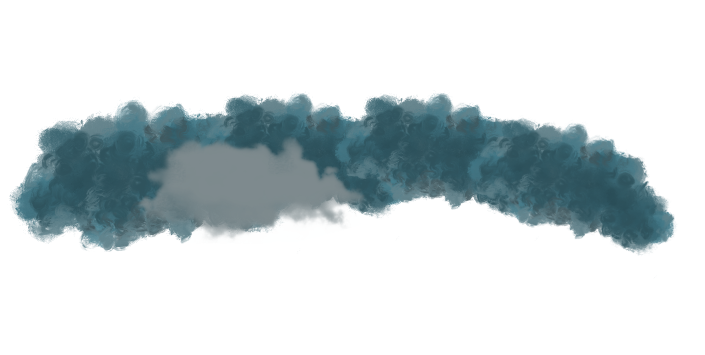
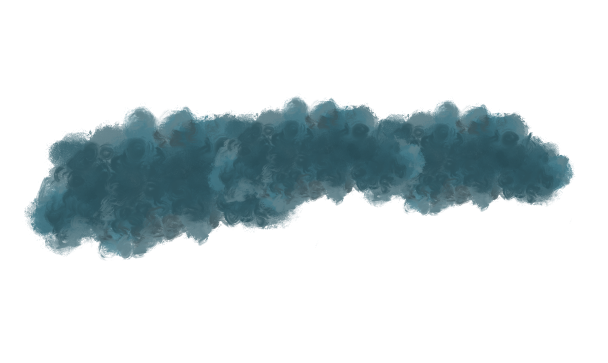
[leo]: semayam asa page image and typography revision

Changed region(s): [[0.0, 0.2479, 0.9688, 0.7127], [0.125, 0.5577, 0.1562, 0.5887]]

diff --git a/app/semayam-asa/page.tsx b/app/semayam-asa/page.tsx
@@ -74,10 +74,15 @@ function SemayamAsa() {
           className="flex text-base flex-col items-center gap-5 mt-10 text-center text-[20px] ">
           <div className="max-w-[1000px]">
             <p>
-              TEDxUniversitasBrawijaya kembali hadir dalam proses Memantik
-              Baskara: Tersulut Tak Membara, Terbakar Tak Bersuara. dalam
-              Semayam Asa dengan, Kreativitas, Kolaborasi, dan Keterbukaan yang
-              menjadi kunci dari tema besar TEDxUniversitasBrawijaya 2023.
+              TEDxUniversitasBrawijaya kembali hadir dalam proses{' '}
+              <span className="font-bold">
+                Memantik Baskara: Tersulut Tak Membara, Terbakar Tak Bersuara
+              </span>{' '}
+              dalam Semayam Asa dengan{' '}
+              <span className="font-bold">
+                Kreativitas, Kolaborasi, dan Keterbukaan
+              </span>{' '}
+              yang menjadi kunci dari tema besar TEDxUniversitasBrawijaya 2023.
             </p>
             <p className="my-[30px]">
               Kreativitas sebagai pertimbangan berbagai ide dan gagasan tanpa
@@ -248,7 +253,7 @@ function SemayamAsa() {
                 sizes="100vh"
                 className="object-cover"
               />
-              <div className="absolute w-[150%] -top-[20%] -left-[24%] aspect-[16/5] z-20">
+              <div className="absolute w-[120%] -top-[10%] -left-[24%] aspect-[16/5] z-20">
                 <Image
                   src={`/assets/images/semayam-asa-cloud.png`}
                   alt="Cloud"
@@ -257,7 +262,7 @@ function SemayamAsa() {
                   className="object-cover"
                 />
               </div>
-              <div className="absolute w-[200%] -bottom-16 -left-[70%] aspect-[16/7] z-20">
+              <div className="absolute w-[50%] -bottom-8 -right-[10%] aspect-[3/4] z-20">
                 <Image
                   src={`/assets/images/semayam-asa-fire.png`}
                   alt="Fire"
